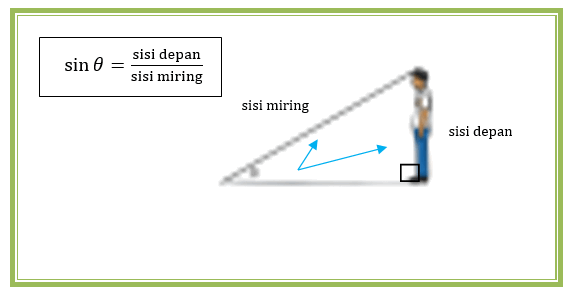
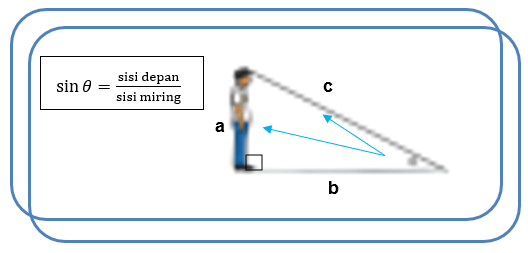
first commit

Changed region(s): [[0.0, 0.0, 1.0, 0.9684], [0.3636, 0.2213, 0.9091, 0.6917], [0.6061, 0.7194, 0.6364, 0.7747]]

diff --git a/scripts/next2.js b/scripts/next2.js
@@ -2,19 +2,117 @@ function next2Page() {
     judul.innerHTML = `<span class="h6">Perbandingan Trigonometri</span>`
     content.innerHTML = `
 <div class="section_our_solution">
+<p style="text-indent:1em;">Berdasarkan ∆ABC,∆DEC,dan ∆FGC dalam perbandingan trigonometri rumus perbandingan trigonometri ada 3 yaitu <b>sinus, cosinus dan tangen</b> .</p>
 <ul>
-<li>Dalam perbandingan trigonometri rumus perbandingan trigonometri ada 3 yaitu sinus, cosinus dan tangen.</li>
 <ol>
 <li>
 <b>Sinus</b><br>
 Nilai Perbandingan ini mempunyai nama khusus yaitu Sinus (disingkat sin). Sin suatu sudut yang dapat ditentukan dengan membagi panjang <b class="text-danger">sisi depan</b> dan <b class="text-danger">sisi miring segitiga</b>. <br>
-<img src="../images/sinus.png" class="img-fluid w-75" alt="sinus"> 
+<img src="../images/sinus.png" class="img-fluid w-75" alt="sinus"> </br>pada gambar di atas manakah sisi depan dan sisi miring?
+<iframe
+ id="JotFormIFrame-232170612128446"
+ title="Jawab"
+ onload="window.parent.scrollTo(0,0)"
+ allowtransparency="true"
+ allowfullscreen="true"
+ allow="geolocation; microphone; camera"
+ src="https://form.jotform.com/232170612128446"
+ frameborder="0"
+ style="min-width:100%;max-width:100%;height:539px;border:none;"
+ scrolling="yes"
+>
+</iframe>
+<script type="text/javascript">
+var ifr = document.getElementById("JotFormIFrame-232170612128446");
+if (ifr) {
+ var src = ifr.src;
+ var iframeParams = [];
+ if (window.location.href && window.location.href.indexOf("?") > -1) {
+   iframeParams = iframeParams.concat(window.location.href.substr(window.location.href.indexOf("?") + 1).split('&'));
+ }
+ if (src && src.indexOf("?") > -1) {
+   iframeParams = iframeParams.concat(src.substr(src.indexOf("?") + 1).split("&"));
+   src = src.substr(0, src.indexOf("?"))
+ }
+ iframeParams.push("isIframeEmbed=1");
+ ifr.src = src + "?" + iframeParams.join('&');
+}
+window.handleIFrameMessage = function(e) {
+ if (typeof e.data === 'object') { return; }
+ var args = e.data.split(":");
+ if (args.length > 2) { iframe = document.getElementById("JotFormIFrame-" + args[(args.length - 1)]); } else { iframe = document.getElementById("JotFormIFrame"); }
+ if (!iframe) { return; }
+ switch (args[0]) {
+   case "scrollIntoView":
+     iframe.scrollIntoView();
+     break;
+   case "setHeight":
+     iframe.style.height = args[1] + "px";
+     if (!isNaN(args[1]) && parseInt(iframe.style.minHeight) > parseInt(args[1])) {
+       iframe.style.minHeight = args[1] + "px";
+     }
+     break;
+   case "collapseErrorPage":
+     if (iframe.clientHeight > window.innerHeight) {
+       iframe.style.height = window.innerHeight + "px";
+     }
+     break;
+   case "reloadPage":
+     window.location.reload();
+     break;
+   case "loadScript":
+     if( !window.isPermitted(e.origin, ['jotform.com', 'jotform.pro']) ) { break; }
+     var src = args[1];
+     if (args.length > 3) {
+         src = args[1] + ':' + args[2];
+     }
+     var script = document.createElement('script');
+     script.src = src;
+     script.type = 'text/javascript';
+     document.body.appendChild(script);
+     break;
+   case "exitFullscreen":
+     if      (window.document.exitFullscreen)        window.document.exitFullscreen();
+     else if (window.document.mozCancelFullScreen)   window.document.mozCancelFullScreen();
+     else if (window.document.mozCancelFullscreen)   window.document.mozCancelFullScreen();
+     else if (window.document.webkitExitFullscreen)  window.document.webkitExitFullscreen();
+     else if (window.document.msExitFullscreen)      window.document.msExitFullscreen();
+     break;
+ }
+ var isJotForm = (e.origin.indexOf("jotform") > -1) ? true : false;
+ if(isJotForm && "contentWindow" in iframe && "postMessage" in iframe.contentWindow) {
+   var urls = {"docurl":encodeURIComponent(document.URL),"referrer":encodeURIComponent(document.referrer)};
+   iframe.contentWindow.postMessage(JSON.stringify({"type":"urls","value":urls}), "*");
+ }
+};
+window.isPermitted = function(originUrl, whitelisted_domains) {
+ var url = document.createElement('a');
+ url.href = originUrl;
+ var hostname = url.hostname;
+ var result = false;
+ if( typeof hostname !== 'undefined' ) {
+   whitelisted_domains.forEach(function(element) {
+       if( hostname.slice((-1 * element.length - 1)) === '.'.concat(element) ||  hostname === element ) {
+           result = true;
+       }
+   });
+   return result;
+ }
+};
+if (window.addEventListener) {
+ window.addEventListener("message", handleIFrameMessage, false);
+} else if (window.attachEvent) {
+ window.attachEvent("onmessage", handleIFrameMessage);
+}
+</script> 
 </li>
+
 <li>
 <b>Cosinus</b><br>
 Nilai Perbandingan ini mempunyai nama khusus yaitu Cosinus (disingkat Cos). Cos suatu sudut yang dapat ditentukan dengan membagi panjang <b class="text-danger">sisi samping</b>   dan <b class="text-danger">sisi miring segitiga</b> .  <br>
 <img src="../images/cosinus.png" class="img-fluid w-75" alt="Responsive image"> 
 </li>
+
 <li>
 <b>Tangen</b><br>
 Nilai Perbandingan ini mempunyai nama khusus yaitu Tangen 

diff --git a/scripts/next1.js b/scripts/next1.js
@@ -446,7 +446,7 @@ if (window.addEventListener) {
 }
 </script>
 
-<p style="text-indent:1em;">Pada segitiga ∆FGC gambarlan dan tentukan semua sisinya! gunakan rumus kesebangunan antara ∆FGC dengan ∆DEC serta rumus phytagoras untuk sisii yang belum diketahui.</p>
+<p style="text-indent:1em;">Pada segitiga ∆FGC gambarkan dan tentukan semua sisinya! gunakan rumus kesebangunan antara ∆FGC dengan ∆DEC serta rumus phytagoras untuk sisii yang belum diketahui.</p>
 <iframe
  id="JotFormIFrame-232170612128446"
  title="Jawab"
